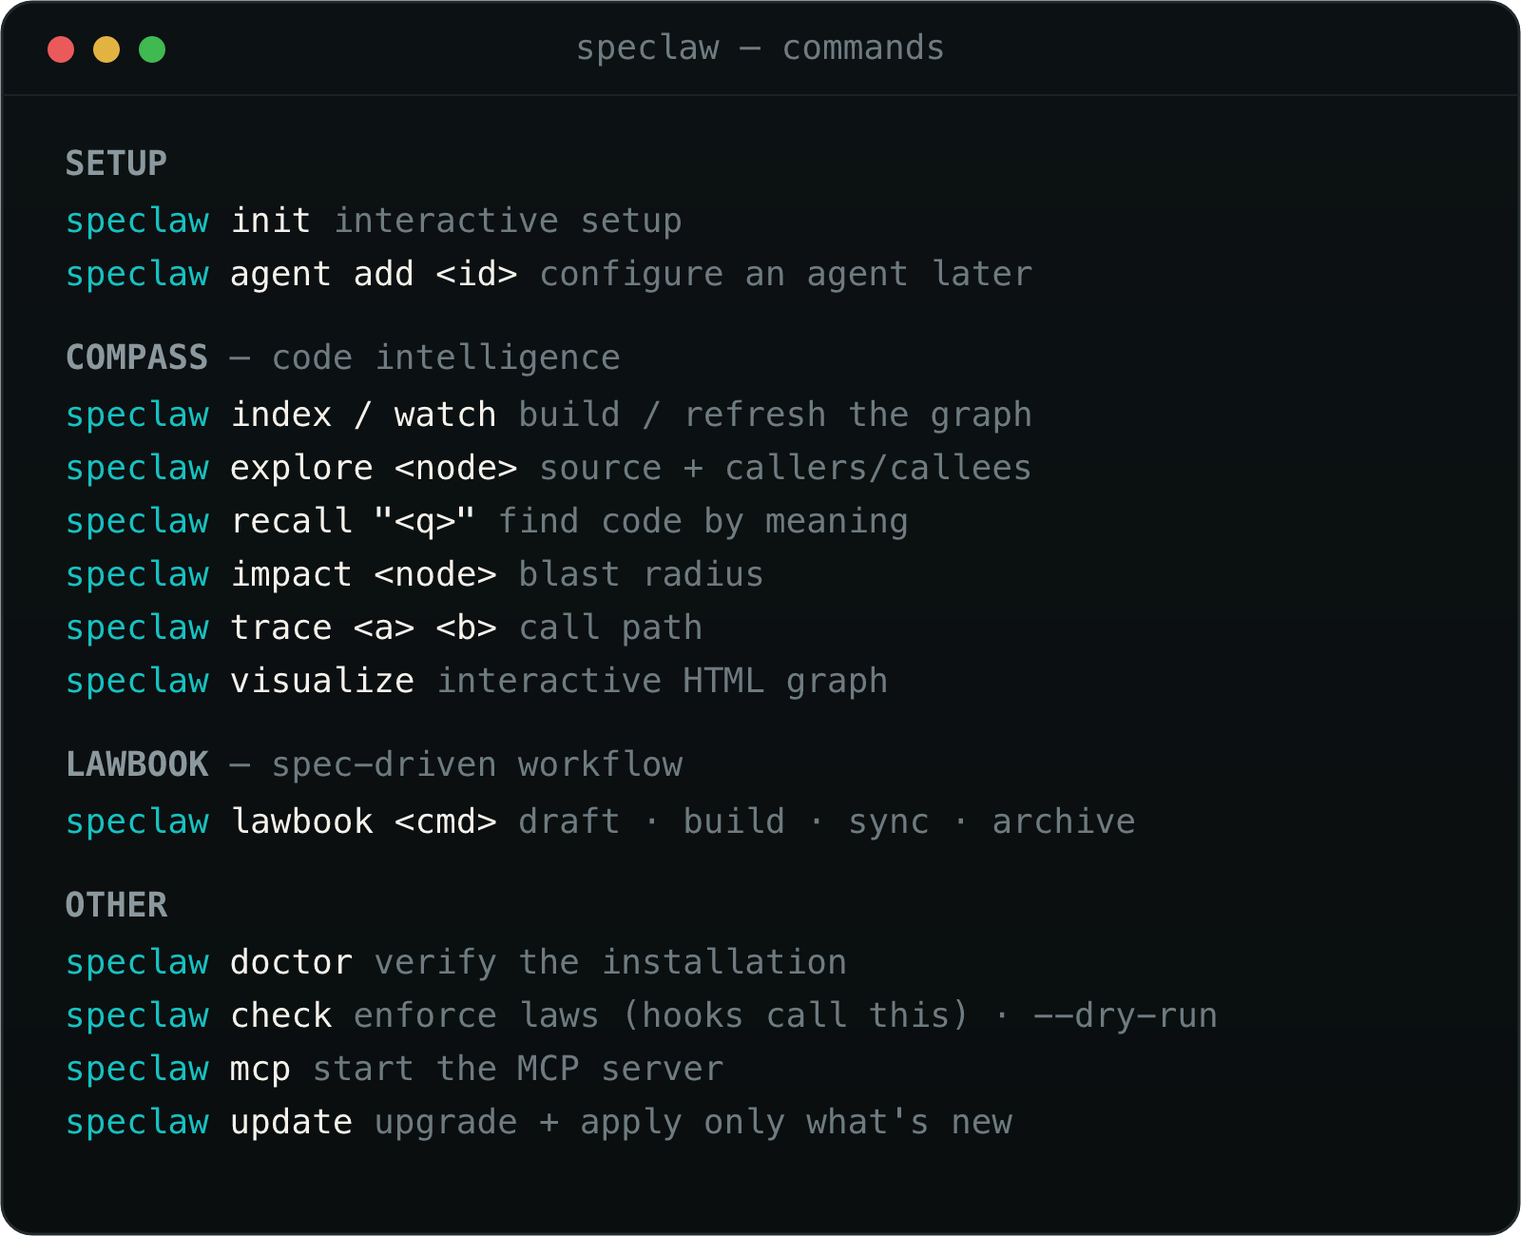
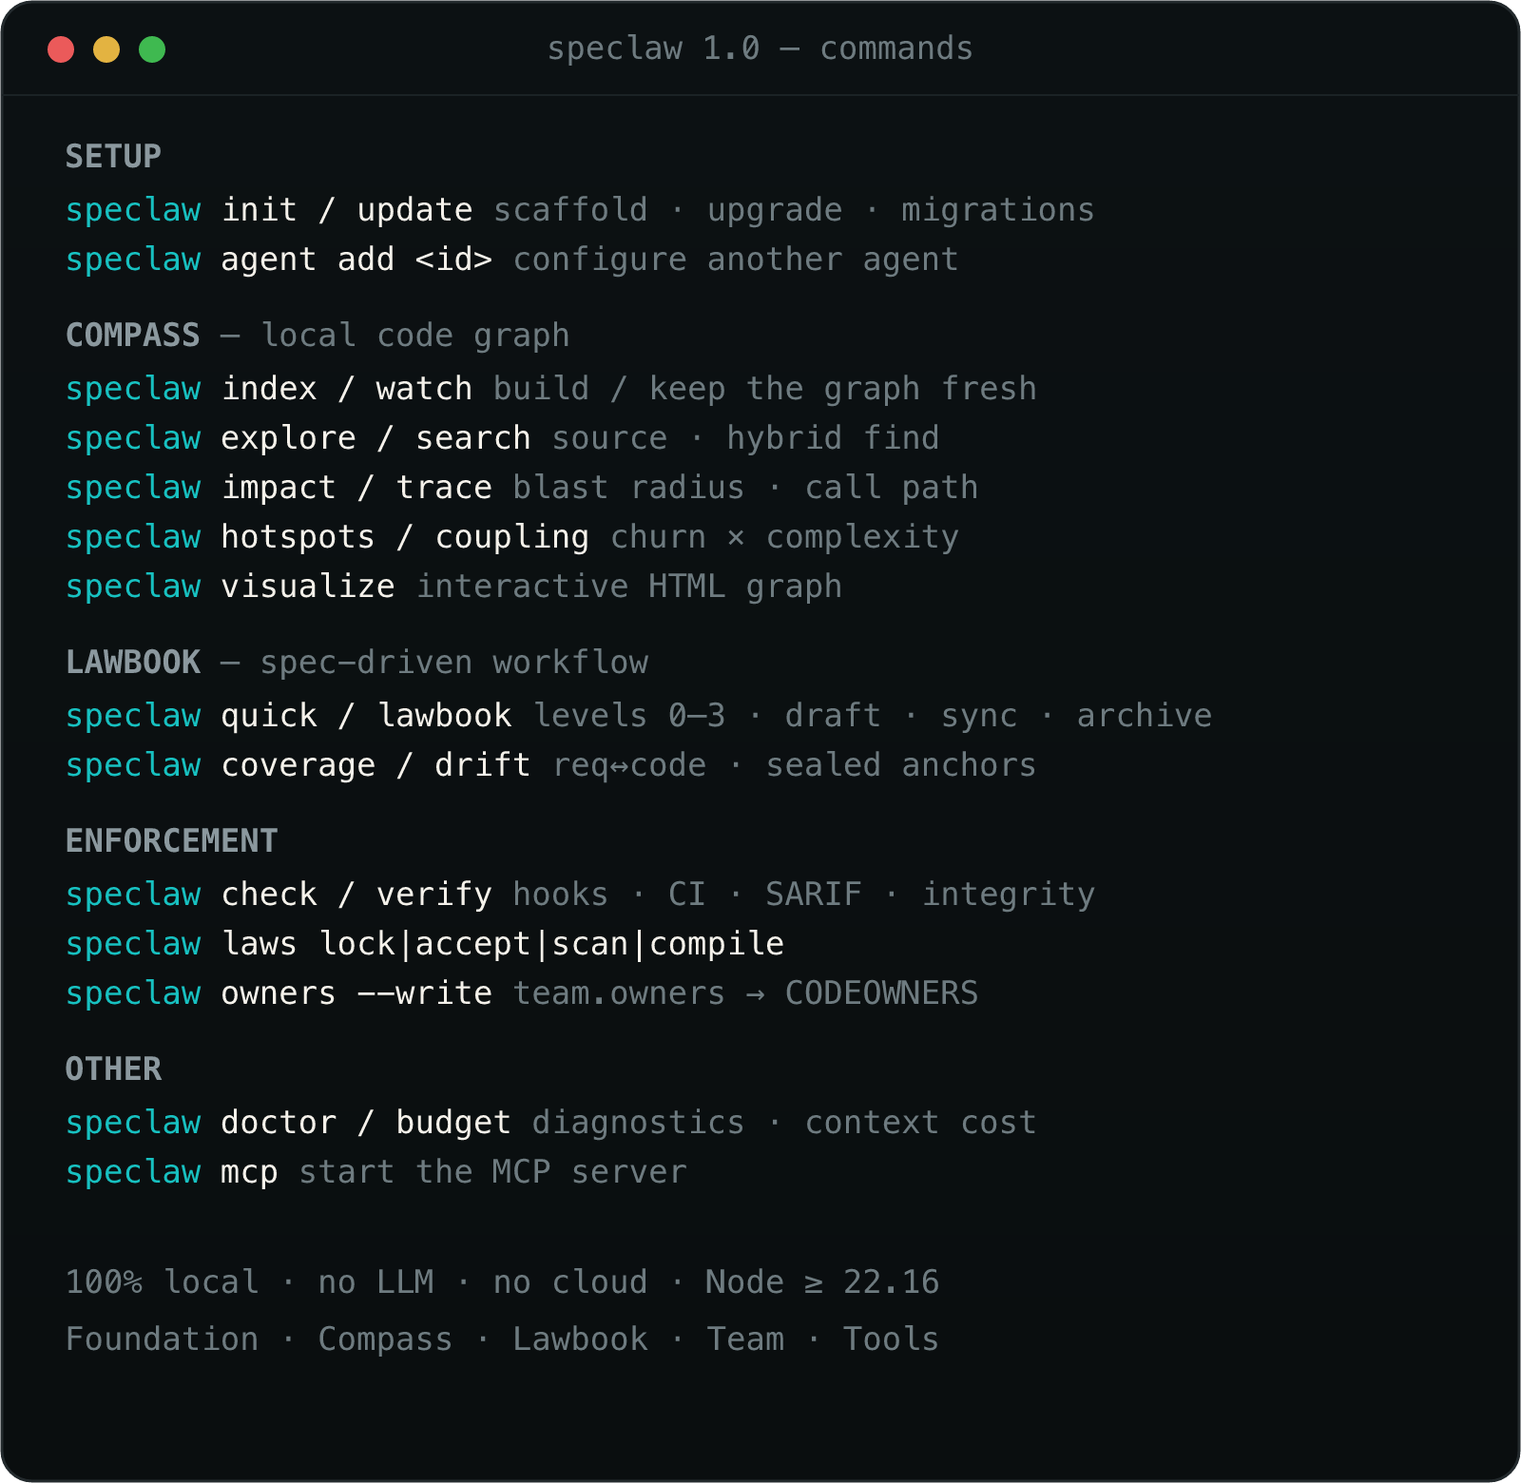
chore(release): 1.0.0 — sync README and brand for official release
Bump package to 1.0.0 with update migration; refresh CLI/MCP/tree brand
assets and README for ceremony 0–3, integrity, owners, and eight tools.

diff --git a/src/cli/commands/update.ts b/src/cli/commands/update.ts
@@ -201,6 +201,16 @@ const MIGRATIONS: Migration[] = [
       "deriveFromTraceability is not enabled in this release.\n" +
       "- Preserve all project-specific wording; only apply these speclaw-authored changes.",
   },
+  {
+    version: "1.0.0",
+    describe: "speclaw 1.0 — official release (enforcement + graph + lawbook + owners)",
+    agentPrompt:
+      "- speclaw **1.0** is the official release: Foundation (hooks + `speclaw.lock` integrity), " +
+      "Compass (schema 10, eight canonical MCP tools), Lawbook (ceremony 0–3, coverage, drift, " +
+      "bugfix), and Team (`team.owners` → `speclaw owners --write`). Install remains " +
+      "`npx @esneiderbravo/speclaw@latest init`. CI consumers use `esneiderbravo/speclaw@v1`.\n" +
+      "- Preserve all project-specific wording; only apply these speclaw-authored changes.",
+  },
 ];
 
 /**

diff --git a/README.md b/README.md
@@ -8,15 +8,17 @@
 &nbsp;<a href="https://github.com/esneiderbravo/speclaw/actions/workflows/ci.yml"><img src="https://img.shields.io/github/actions/workflow/status/esneiderbravo/speclaw/ci.yml?branch=main&label=CI&labelColor=0B0F10&style=flat-square&color=0E8E8E" alt="CI"></a>
 &nbsp;<a href="https://www.npmjs.com/package/@esneiderbravo/speclaw?activeTab=versions"><img src="https://img.shields.io/badge/provenance-SLSA-0E8E8E?labelColor=0B0F10&style=flat-square" alt="npm provenance"></a>
 &nbsp;<a href="LICENSE"><img src="https://img.shields.io/badge/license-MIT-0E8E8E?labelColor=0B0F10&style=flat-square" alt="MIT"></a>
-&nbsp;<img src="https://img.shields.io/badge/node-%E2%89%A522-0E8E8E?labelColor=0B0F10&style=flat-square" alt="Node >= 22">
+&nbsp;<img src="https://img.shields.io/badge/node-%E2%89%A522.16-0E8E8E?labelColor=0B0F10&style=flat-square" alt="Node >= 22.16">
+&nbsp;<img src="https://img.shields.io/badge/v1.0-0E8E8E?labelColor=0B0F10&style=flat-square" alt="v1.0">
 
 <br/><br/>
 
 <p align="center">
 <b>AI agents are brilliant and blind</b> — brilliant at writing code, blind to <i>your</i>
-project's rules. <b>speclaw</b> hands them what they're missing: the codebase's
+project's rules. <b>speclaw 1.0</b> hands them what they're missing: the codebase's
 <b>written laws</b> (a constitution built from your real code), a <b>local map</b> to
-navigate it without burning tokens, and a <b>disciplined workflow</b> for every change.
+navigate it without burning tokens, a <b>disciplined workflow</b> for every change,
+and the <b>gates</b> that make those laws hold in the editor, in CI, and in the PR.
 <br/>
 One command. No cloud, no LLM, no API keys — <b>everything runs on your machine.</b>
 </p>
@@ -24,6 +26,7 @@ One command. No cloud, no LLM, no API keys — <b>everything runs on your machin
 <img src="https://img.shields.io/badge/100%25_local-0E8E8E?labelColor=0B0F10&style=flat-square" alt="100% local">
 &nbsp;<img src="https://img.shields.io/badge/no_LLM_·_no_cloud-0E8E8E?labelColor=0B0F10&style=flat-square" alt="no LLM">
 &nbsp;<img src="https://img.shields.io/badge/CLI_+_MCP-0E8E8E?labelColor=0B0F10&style=flat-square" alt="CLI + MCP">
+&nbsp;<img src="https://img.shields.io/badge/8_canonical_tools-0E8E8E?labelColor=0B0F10&style=flat-square" alt="8 tools">
 &nbsp;<img src="https://img.shields.io/badge/any_agent-0E8E8E?labelColor=0B0F10&style=flat-square" alt="any agent">
 
 </div>
@@ -59,16 +62,19 @@ speclaw init
 ```
 
 The `speclaw` command is then available everywhere — run `speclaw index`,
-`speclaw doctor`, `speclaw visualize`, or `speclaw lawbook …` directly.
+`speclaw doctor`, `speclaw verify`, `speclaw owners --write`, or
+`speclaw lawbook …` directly.
 
 `init` will:
 
 1. **Ask which agents you use** (Claude Code, Cursor, Codex, Windsurf, …) — and
    configure only those. Add more later; nothing is forced on you.
 2. Write the **foundation** (constitution + standards) and the **lawbook workflow**,
-   and compile your blocking laws into **agent hooks** for the agents that support them.
+   compile your blocking laws into **agent hooks**, and create a committed
+   **`speclaw.lock`** baseline for rule-file integrity.
 3. **Index your code** with a live progress bar and a summary of what it found.
-4. Register the speclaw **MCP server** in each chosen agent's config.
+4. Register the speclaw **MCP server** in each chosen agent's config
+   (eight canonical tools; use `--minimal` to omit setup/lifecycle tools).
 5. Print a prompt to paste into your agent so it fills the constitution with your
    project's real architecture and conventions.
 
@@ -82,7 +88,8 @@ When something breaks, run `speclaw doctor --json` and paste it into an issue
 Every npm publish is signed via **Trusted Publishing (OIDC)** and carries a
 SLSA provenance attestation tied to this repository and workflow. That proves
 *where* the tarball was built — not that its contents are benign. Pair it with
-your own review and (later) law-integrity pinning.
+your own review and with **`speclaw.lock`** digests on rule files (see
+[Verify in CI](#-verify-in-ci)).
 
 ```bash
 npm audit signatures
@@ -102,15 +109,15 @@ gh attestation verify <tarball> --owner esneiderbravo
 
 <br/>
 
-## <img src="https://raw.githubusercontent.com/esneiderbravo/speclaw/main/brand/diamond.png" height="20" alt="◆" align="absmiddle">&nbsp; The suite — modules
+## <img src="https://raw.githubusercontent.com/esneiderbravo/speclaw/main/brand/diamond.png" height="20" alt="◆" align="absmiddle">&nbsp; The suite — five modules
 
 | Module | What it does |
 | :-- | :-- |
-| **Foundation** | The project's constitution: `LAWS.md` binding a set of granular standards under `docs/standards/` (base, architecture, backend, frontend, testing, documentation, conventions, lawbook), plus strict `CLAUDE.md` / `AGENTS.md` agent contracts — filled from your real codebase. It also **enforces** them: blocking laws compile into agent hooks that deny a forbidden edit at the keystroke (`speclaw check` / `speclaw_check`), and architectural laws are verified deterministically against the Compass graph — dependency rules (`deps`) and cycles (`graph`) — via `speclaw verify` (CI orchestrator: exit codes, SARIF, markdown) and `speclaw laws verify` / `law_verify`. Each law is reported as passed, failed, skipped, or unknown (an unresolved reference is *unknown*, never a silent pass). |
-| **Compass** | speclaw's own local code graph. Parses your code (tree-sitter) into nodes + edges plus a local vector store, so an agent finds and understands code with a fraction of the tokens a grep/read loop would cost. No LLM, 100% local, lives in `.speclaw/` (gitignored). |
-| **Lawbook** | speclaw's own spec-driven workflow: `draft → build → sync → archive` (and `explore`), backed by `lawbook_*` engine tools. No external CLI. |
-| **Team** | Local team surfaces: declare `team.owners` in `lawbook/config.yaml` and compile a managed trailing block in `.github/CODEOWNERS` with `speclaw owners --write` (GitHub: last match wins). CLI + `doctor` only — no MCP tool in this release. |
-| **Tools** | Opt-in packs of skills and subagents (currently the dev-agents) that agents use for specific tasks. |
+| **Foundation** | The project's constitution: `LAWS.md` binding granular standards under `docs/standards/`, plus `CLAUDE.md` / `AGENTS.md`. **Enforced** via agent hooks (`speclaw check`), deterministic graph laws (`speclaw verify` / `laws verify`), multidialect compile (`laws compile`), and committed **`speclaw.lock`** digests + injection scan (`laws lock` / `accept` / `scan`). |
+| **Compass** | Local code graph (tree-sitter → `node:sqlite`): hybrid find (FTS5 + vectors + RRF + PageRank), impact, affected-tests, hotspots, coupling, visualize. Schema **10**. No LLM — lives in `.speclaw/` (gitignored). |
+| **Lawbook** | Spec-driven workflow with **adaptive ceremony** (levels 0–3), bugfix changes + `lawbook_investigate`, EARS linting, requirement **coverage**, and sealed **drift** anchors. Loop: `explore → draft → build → sync → archive`. |
+| **Team** | Declare `team.owners` in `lawbook/config.yaml`; `speclaw owners --write` compiles a managed trailing block in `.github/CODEOWNERS` (GitHub: last match wins). Doctor checks the posture. CLI-only — no MCP tool. |
+| **Tools** | Opt-in packs of skills and subagents (currently the dev-agents). |
 
 Compass is inspired by [CodeGraph](https://github.com/colbymchenry/codegraph) and the Lawbook module by [OpenSpec](https://github.com/Fission-AI/openspec) — both MIT. speclaw reimplements the ideas as its own code and gives full credit; see [ATTRIBUTION.md](ATTRIBUTION.md).
 
@@ -124,16 +131,15 @@ tokenizer on this corpus — not a BPE dependency):
 
 | | Tokens |
 | :-- | --: |
-| **speclaw budget (always-on)** | **~12.9k** (8 MCP tools · ceiling **13.0k**) |
+| **speclaw budget (always-on)** | **~13.7k** (8 MCP tools · ceiling **14.0k**) |
 | Spec Kit commands alone | ~18.6k ([spec-kit#1401](https://github.com/github/spec-kit/issues/1401)) |
 
 ```bash
 speclaw budget          # human table
 speclaw budget --json   # machine-readable; used by the suite gate
 speclaw coverage        # requirement → impl → test coverage (TAP / table)
-speclaw coverage --json # machine-readable coverage report
 speclaw drift           # sealed spec ↔ code drift (default --fail-on semantic)
-speclaw drift --reseal  # photograph current bodies into lawbook/anchors/
+speclaw owners --write  # team.owners → .github/CODEOWNERS
 speclaw init --minimal  # omit setup/lifecycle MCP tools from registration
 ```
 
@@ -160,38 +166,40 @@ non-trivial lands without a spec change. It's a loop of five steps:
 | Step | What happens |
 | :-- | :-- |
 | **explore** | Think an idea through *before* committing to it — should we do this, and how. Writes nothing. |
-| **draft** | Capture the intent as a change under `lawbook/changes/<name>/` — four artifacts plus a `reports/` folder, always (see below). |
+| **draft** | Propose a **ceremony level** (0–3) from graph signals, confirm it, then scaffold only what that level needs under `lawbook/changes/<name>/`. |
 | **build** | Implement the tasks in order, keeping code and spec in agreement, and record test results under `reports/`. |
-| **sync** | Reconcile the delta specs against what was actually built, then promote them into the canonical `lawbook/specs/` — the always-true description of how the system behaves. |
-| **archive** | Reconcile, then validate, promote, and move the change to `lawbook/changes/archive/` — **in the same PR**, never a post-merge chore. Gated: refused while any task is unchecked, `reports/` is empty, or the specs are unsynced. |
+| **sync** | Reconcile the delta specs against what was actually built, then promote them into the canonical `lawbook/specs/`. |
+| **archive** | Reconcile, then validate, promote, and move the change to `lawbook/changes/archive/` — **in the same PR**. Gated on tasks, reports, synced specs, and coverage. |
 
-**Every `draft` writes four artifacts under `lawbook/changes/<name>/` — none optional:**
+**Ceremony levels** (confirmed in `change.json`; missing ⇒ level 3):
 
-| Artifact | What it captures |
-| :-- | :-- |
-| `proposal.md` | The **why** — motivation, what changes, non-goals, and whether migrations are needed. |
-| `specs/<capability>/spec.md` | The **delta specs** — one per affected capability, normative and testable. |
-| `design.md` | The **how** — approach, alternatives weighed, and the trade-offs behind the decision. |
-| `tasks.md` | The **plan** — ordered, checkable steps, including the mandatory ones from `config.yaml`. |
+| Level | When | Artifacts |
+| :-- | :-- | :-- |
+| **0** | One-liner / typo / docs-only | `speclaw quick` → `record.md` + `reports/` |
+| **1** | Small fix with a delta | `record.md` + `tasks.md` + ≥1 delta + `reports/` |
+| **2** | Normal feature | `proposal.md` + tasks + deltas + `reports/` (`design.md` optional) |
+| **3** | Full ceremony | proposal + design + tasks + deltas + `reports/` |
+| **bug** | Regression / RCA | `speclaw lawbook draft --bug` → `bugfix.md` + investigate first |
 
-Plus a **`reports/`** folder — scaffolded at draft, filled at build with one report per discipline (`backend.md`, `frontend.md`, …) recording the real unit/integration/e2e results. Evidence of testing travels with the change, and `lawbook_archive` refuses to archive without it.
+Plus a **`reports/`** folder — scaffolded at draft, filled at build with one report
+per discipline (`backend.md`, `frontend.md`, `api.md`, …). `lawbook_archive`
+refuses to archive without it.
 
 > [!NOTE]
 > **Delta specs are normative and testable.** Requirements use `SHALL`/`MUST`
-> under `### Requirement:` headers, each with one or more `#### Scenario:` blocks
-> whose acceptance criteria hold without production integrations. `lawbook_validate`
-> checks that the code matches what the spec promises before you sync or archive.
+> under `### Requirement:` headers (EARS-friendly), each with `#### Scenario:`
+> blocks. `lawbook_validate` checks structure; `speclaw coverage` tracks
+> `req~…~N` → impl/test via `// Covers:` comments.
 
 **Three ways to drive it — same engine, no external CLI:**
 
-- **In your agent** — the `/lawbook:explore`, `/lawbook:draft`, `/lawbook:build`, `/lawbook:sync`, `/lawbook:archive` commands (installed as skills).
-- **MCP tools** — eight canonical tools: `compass_explore`, `compass_find`, `compass_diff_context`, `compass_index`, `lawbook_change`, `lawbook_investigate`, `speclaw_setup`, `speclaw_check`.
-- **CLI** — `speclaw lawbook init | list | validate | sync | archive`.
+- **In your agent** — `/lawbook:explore`, `/lawbook:draft`, `/lawbook:build`, `/lawbook:sync`, `/lawbook:archive` (and `/lawbook:quick`, investigate).
+- **MCP tools** — eight canonical: `compass_explore`, `compass_find`, `compass_diff_context`, `compass_index`, `lawbook_change`, `lawbook_investigate`, `speclaw_setup`, `speclaw_check`.
+- **CLI** — `speclaw lawbook …`, `speclaw quick`, `speclaw coverage`, `speclaw drift`.
 
-The workspace is committed under `lawbook/`: `specs/` (canonical), `changes/`
-(in-flight), `changes/archive/` (shipped), and `config.yaml` (the mandatory task
-steps every change must include). The standards themselves are amended the same
-way — through a spec change reviewed by a human.
+The workspace is committed under `lawbook/`: `specs/`, `changes/`,
+`changes/archive/`, `anchors/` (drift photographs), and `config.yaml`
+(mandatory tasks, ceremony cuts, `team.owners`, EARS knobs).
 
 <br/>
 
@@ -205,7 +213,7 @@ still use Compass and the lawbook engine by calling the CLI from its shell.
 <p align="center"><b>CLI</b> — the installer &amp; operator, runs anywhere <code>node</code> does</p>
 <p align="center"><img src="https://raw.githubusercontent.com/esneiderbravo/speclaw/main/brand/terminal-cli.png" width="800" alt="speclaw CLI commands"></p>
 
-<p align="center"><b>MCP</b> — the integrated agent surface, auto-registered by <code>init</code></p>
+<p align="center"><b>MCP</b> — eight canonical tools, auto-registered by <code>init</code></p>
 <p align="center"><img src="https://raw.githubusercontent.com/esneiderbravo/speclaw/main/brand/terminal-mcp.png" width="800" alt="speclaw MCP tools"></p>
 
 <br/>
@@ -217,26 +225,20 @@ still use Compass and the lawbook engine by calling the CLI from its shell.
 </p>
 
 **Committed vs. local.** Your **personalized source** is committed — `LAWS.md`,
-`CLAUDE.md`, `AGENTS.md`, `docs/standards/*`, `docs/compass.md`, and the
-`lawbook/` workspace. speclaw's **regenerable workflow content is local, not
-committed**: only `ai-specs/` (skills, commands, rules, agent packs, and its
-`.speclaw.json` manifest) is gitignored, because `init`/`update` reconstruct it
-from the package — like a dependency. So **after cloning a speclaw project, run
-`speclaw init` (or `speclaw update`)** to regenerate `ai-specs/` locally, which
-the agent IDE symlinks point into. If a project committed `ai-specs/` before
-this behavior existed, `init`/`update` print the exact `git rm -r --cached
-ai-specs` command to stop tracking it (they never touch your git index
-themselves). The agent directories (`.claude/`, `.cursor/`, …) are **left to
-you** — commit your own skills and commands there if you want to.
+`CLAUDE.md`, `AGENTS.md`, `docs/standards/*`, `docs/compass.md`, the `lawbook/`
+workspace, and **`speclaw.lock`** (rule digests at the repo root). speclaw's
+**regenerable workflow content is local, not committed**: only `ai-specs/`
+(skills, commands, rules, agent packs, and its `.speclaw.json` manifest) is
+gitignored, because `init`/`update` reconstruct it from the package. So **after
+cloning a speclaw project, run `speclaw init` (or `speclaw update`)** to
+regenerate `ai-specs/` locally. Optional **`team.owners`** in
+`lawbook/config.yaml` compiles into a managed block at the end of
+`.github/CODEOWNERS` via `speclaw owners --write`.
 
 **Enforcement artifacts.** For agents that support hooks, speclaw merges its law
-hooks into that agent's settings (e.g. `.claude/settings.json`) **by identity** —
-it never touches hooks you added yourself. Each speclaw `mcp_tool` hook includes
-an `input` map Claude Code substitutes from the hook event (`${cwd}`,
-`${hook_event_name}`, `${tool_input.file_path}`, …) so `speclaw_check` receives
-`projectPath` / `event` / `payload`. The compiled law manifest lives in
-`.speclaw/laws-manifest.json` (gitignored, regenerated on `init`/`update`), and a
-context-coverage log in `.speclaw/context-log.jsonl` feeds `speclaw doctor`.
+hooks into that agent's settings **by identity** — it never touches hooks you
+added yourself. The compiled law manifest lives in `.speclaw/laws-manifest.json`
+(gitignored), and a context-coverage log feeds `speclaw doctor`.
 
 <br/>
 
@@ -262,7 +264,8 @@ So `speclaw init` compiles your blocking laws into agent hooks: a law marked
 and source. `speclaw check --dry-run --path <file>` previews what would block, and
 `speclaw doctor` reports how many of your laws actually reached the agent's
 context. Agents without hooks (Cursor, Codex) enforce the same laws in CI via
-`speclaw verify`.
+`speclaw verify`. Digests in `speclaw.lock` catch silent edits to the rule files
+themselves (the *Rules File Backdoor*).
 
 <br/>
 
@@ -296,7 +299,8 @@ speclaw laws accept AGENTS.md   # interactive TTY only — never via MCP
 **Limits (honest):** digests catch any edit; the scanner catches known payload
 shapes after Unicode normalization — not LLM-grade semantic injection. Digest
 acceptance is a human gate (`laws accept` on a TTY). There is no Sigstore signing
-of the lock in this release.
+of the lock in this release. Regenerable IDE mirrors (e.g. `.cursor/rules` →
+`ai-specs/`) are not pinned as strict committed files.
 
 On GitHub:
 
@@ -306,7 +310,8 @@ On GitHub:
 
 `init` / `update` write `.github/workflows/speclaw.yml` only when that path is
 missing — they never overwrite your CI. Make the check required in branch
-protection yourself; speclaw does not.
+protection yourself; speclaw does not. Pair with `speclaw owners` + *Require
+review from Code Owners* when you declare `team.owners`.
 
 <br/>
 
@@ -322,17 +327,12 @@ speclaw update
 `update` upgrades the global package **and** brings the current project up to date
 without a re-init, splitting files by who owns them:
 
-- **Managed files** (speclaw's workflow machinery — the skills, commands, rules,
-  and agent packs under `ai-specs/`) are **refreshed** to the new version, so
-  improvements actually reach your project. They live locally (gitignored, see
-  *What lands in your project*) and are reconstructed from the package. If you
-  edited one locally, `update` reports the overwrite; pass `--backup` to keep a
-  `<file>.bak` (itself gitignored) before it is refreshed.
-- **Personalized files** (your constitution and standards — `CLAUDE.md`,
-  `AGENTS.md`, `LAWS.md`, `docs/standards/*`, `docs/compass.md`,
-  `lawbook/config.yaml`) are **never auto-edited**. When a release changes their
-  speclaw-authored content, `update` prints a prompt for **the agent you're
-  using** to apply the change while preserving your project's specifics.
+- **Managed files** (skills/commands/rules under `ai-specs/`) are **refreshed**.
+  Pass `--backup` to keep a `<file>.bak` before overwrite.
+- **Personalized files** (`CLAUDE.md`, `AGENTS.md`, `LAWS.md`, `docs/standards/*`,
+  `docs/compass.md`, `lawbook/config.yaml`) are **never auto-edited** — `update`
+  prints a prompt for the agent you're using.
+- **`speclaw.lock`** and the CODEOWNERS owners block are refreshed when configured.
 
 - `speclaw update --check` — report whether an update exists, change nothing.
 - `NO_UPDATE_NOTIFIER=1` — silence the reminder.
@@ -341,7 +341,7 @@ without a re-init, splitting files by who owns them:
 
 ## <img src="https://raw.githubusercontent.com/esneiderbravo/speclaw/main/brand/diamond.png" height="20" alt="◆" align="absmiddle">&nbsp; Requirements
 
-- **Node.js ≥ 22** — uses the built-in `node:sqlite`.
+- **Node.js ≥ 22.16** — uses built-in `node:sqlite` (FTS5 for hybrid find).
 - **No native builds, no services, no API keys, no LLM download.** Tree-sitter
   parsers ship as WASM; the vector store is local.
 
@@ -354,6 +354,6 @@ without a re-init, splitting files by who owns them:
 [CodeGraph](https://github.com/colbymchenry/codegraph) &nbsp;·&nbsp;
 see [ATTRIBUTION.md](ATTRIBUTION.md)
 
-<i>speclaw · where specs become law</i>
+<i>speclaw 1.0 · where specs become law</i>
 
 </div>
